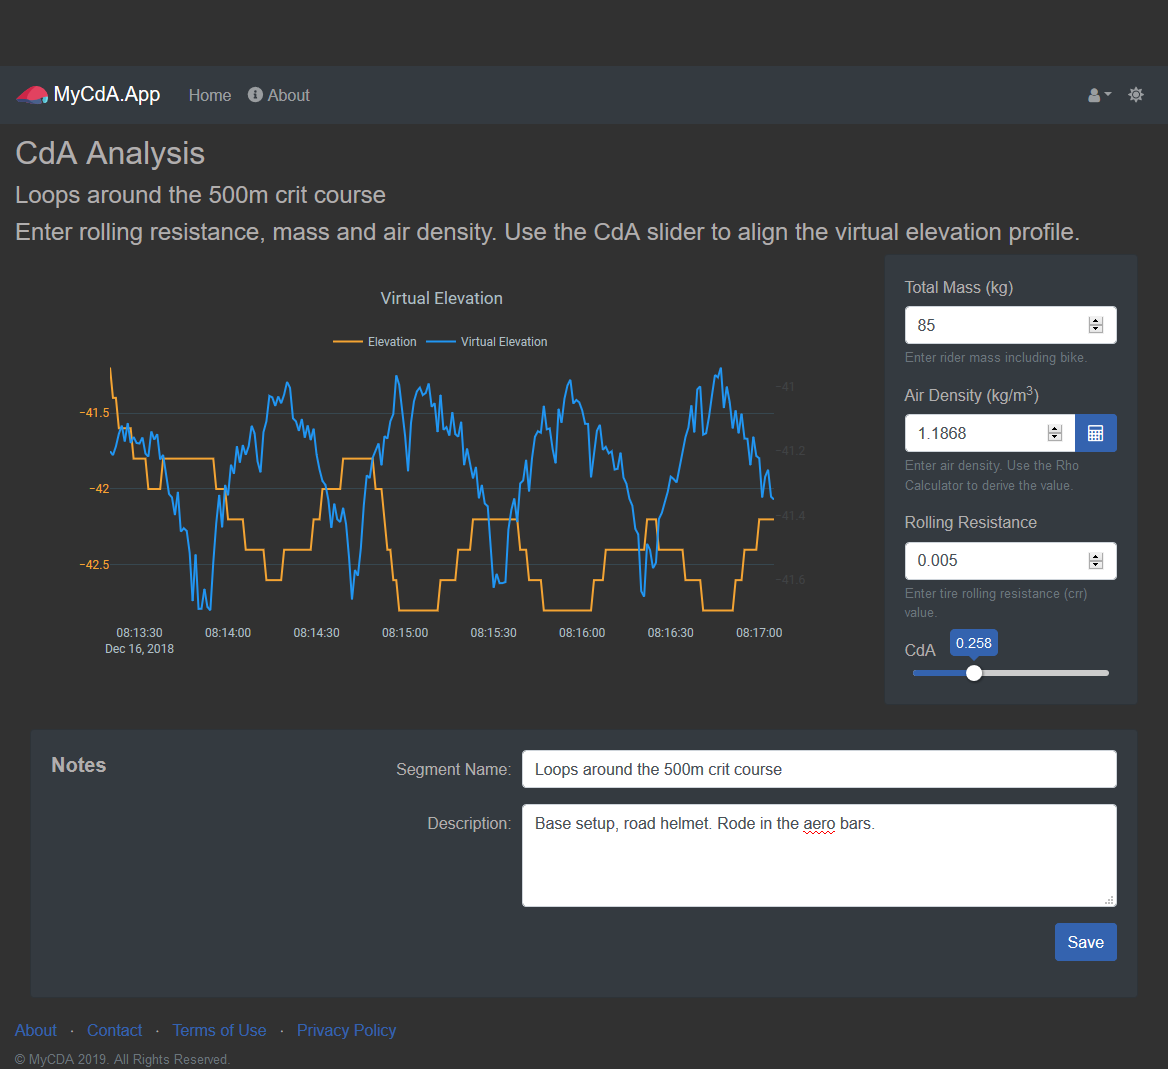
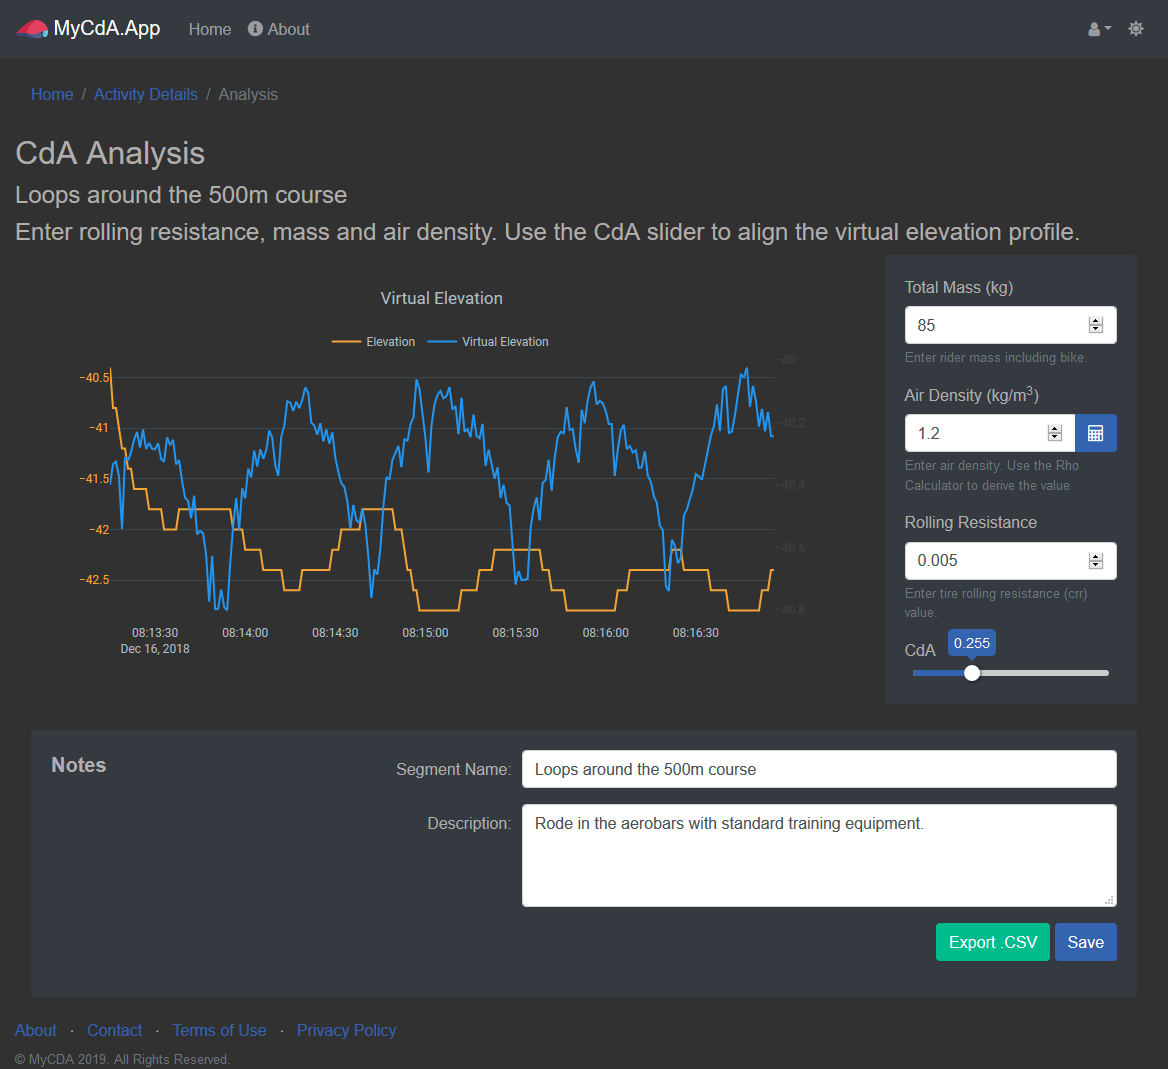
Added CSV export button.

diff --git a/src/components/CdA.vue b/src/components/CdA.vue
@@ -11,7 +11,8 @@
     <div class="container-fluid">
       <h2>CdA Analysis</h2>
       <h4>{{analysisName}}</h4>
-      <h4 v-if="!loading">Enter rolling resistance, mass and air density. Use the CdA slider to align the virtual elevation profile.</h4>
+      <h4 v-if="!loading">Enter rolling resistance, mass and air density. Use the CdA slider to align the virtual elevation profile.
+      </h4>
       <span v-if="loading">Loading segment details, please wait...<font-awesome-icon icon="spinner" spin/></span>
       <div id='virtualElevation' ref="virtualElevation" v-else>
         <b-container fluid>
@@ -102,6 +103,7 @@
                   </b-form-group>
                   <b-form-group>
                     <div align="right">
+                      <b-button v-on:click="exportData" variant="success">Export .CSV</b-button>
                       <b-button align="right" variant="primary"
                         :disabled="!dirty || $v.$invalid"
                         v-on:click="saveAnalysis">
@@ -318,6 +320,7 @@ export default {
       const link = document.createElement('a')
       link.setAttribute('href', data)
       link.setAttribute('download', 'export.csv')
+      document.body.appendChild(link)
       link.click()
     },
     fetchData: async function () {
